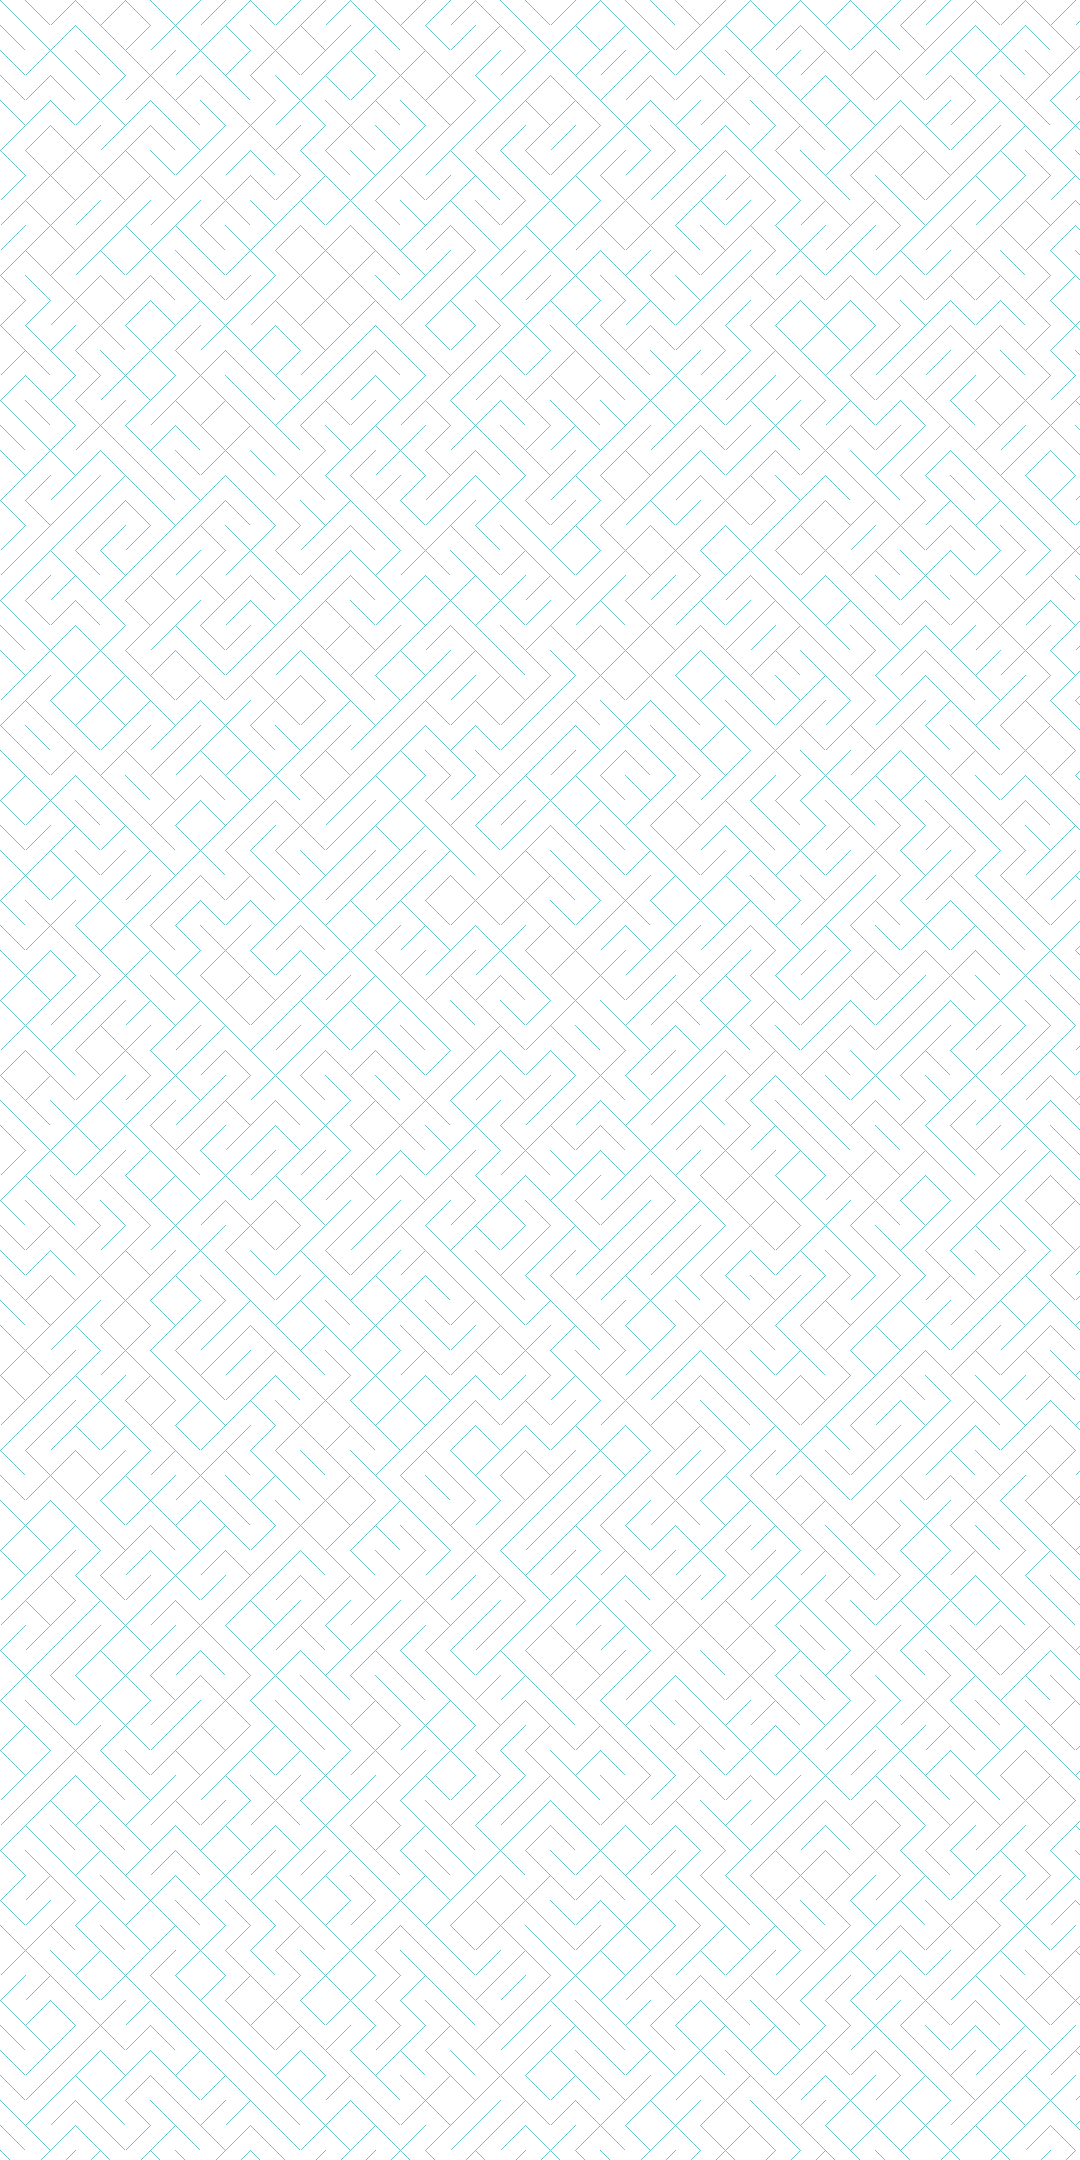
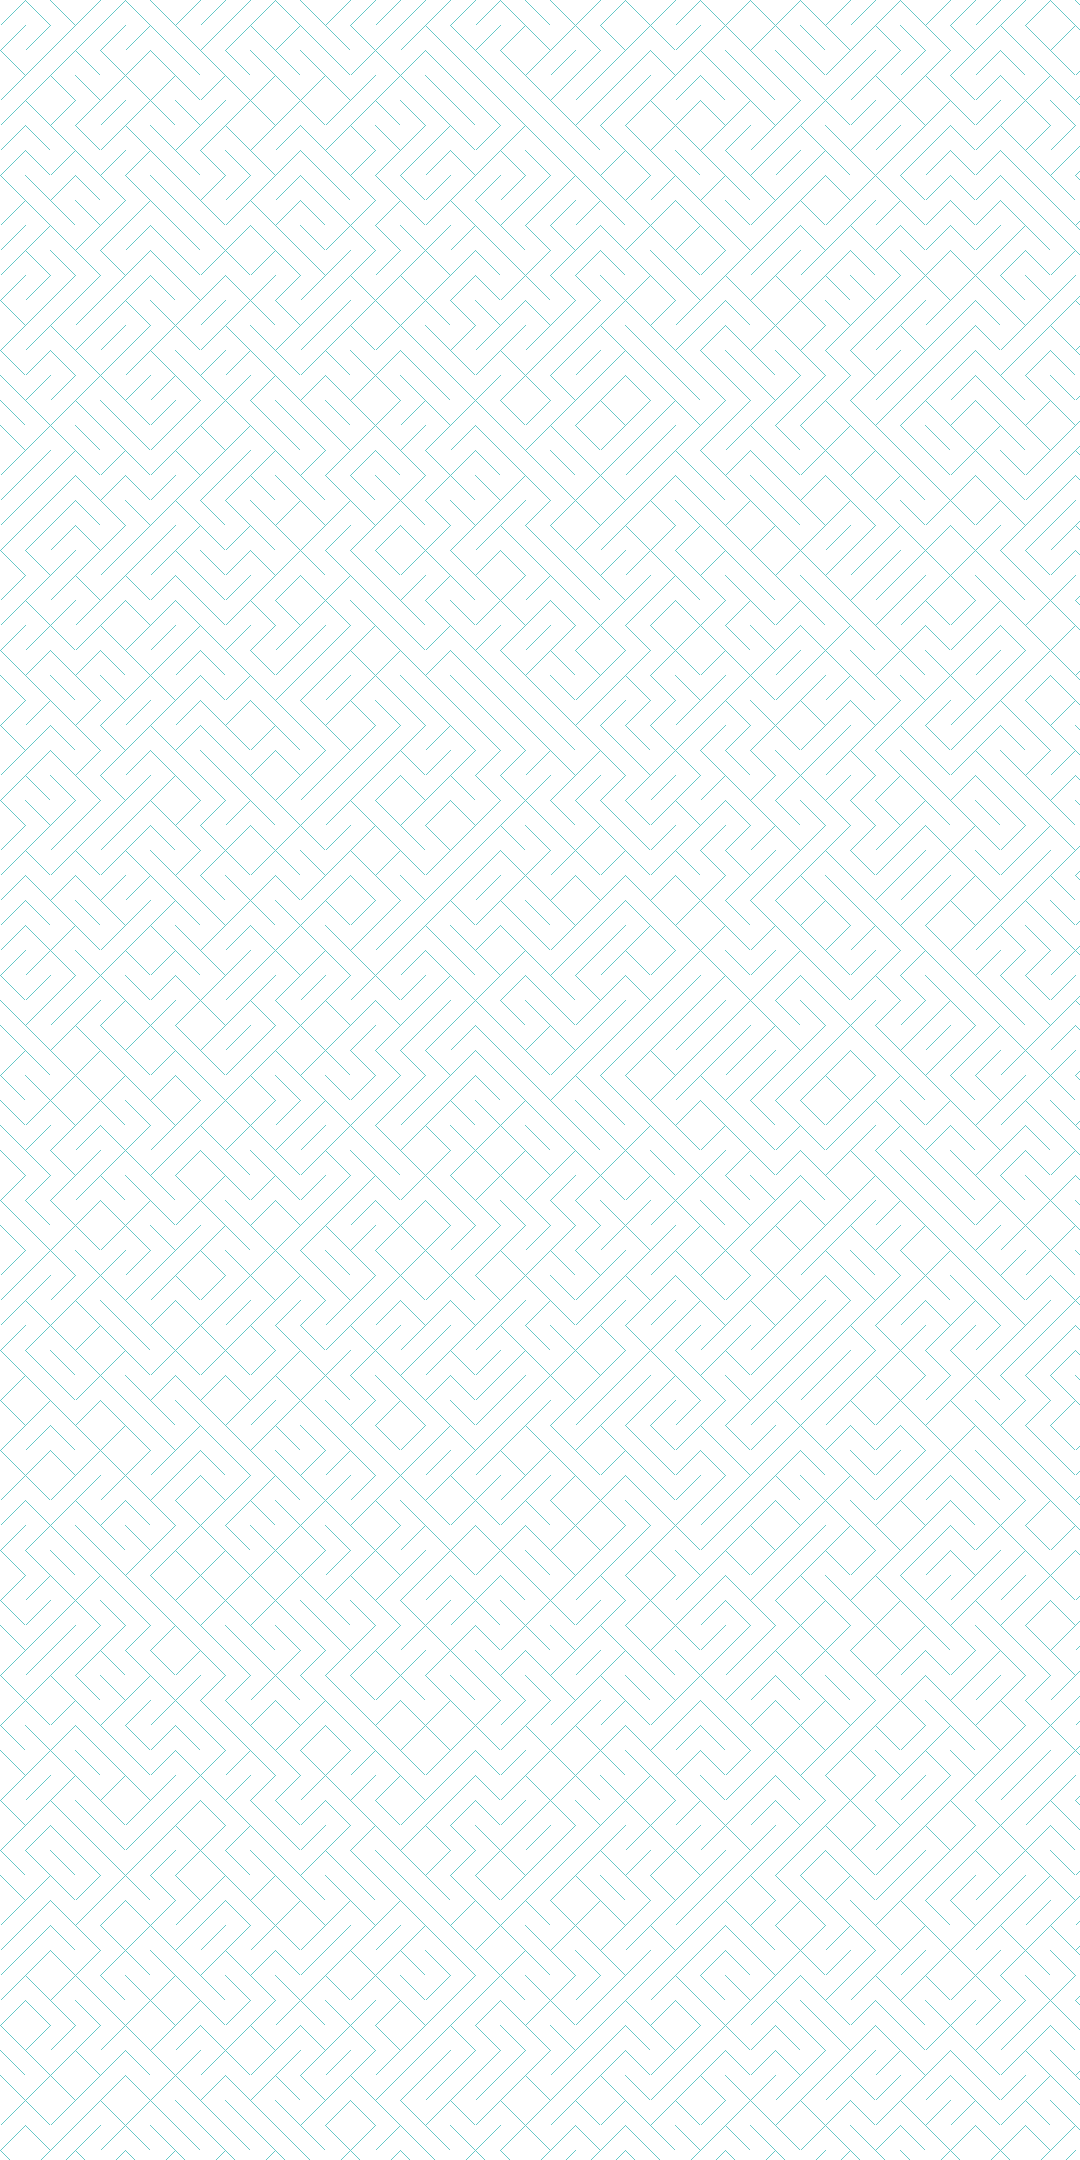
Lots of test runs, finally generating new images though! random was the key

diff --git a/lines.go b/lines.go
@@ -8,15 +8,19 @@ import (
     "image/png"
     "os"
     "fmt"
-    "math/rand"
     "flag"
     "strings"
+        crypto_rand "crypto/rand"
+    "encoding/binary"
+    math_rand "math/rand"
 )
 
 var debug bool = false
 
 func draw(img *image.RGBA, c color.Color, x int, y int, xstep int, ystep int) {
-    leftToRight := rand.Intn(2)
+    leftToRight := math_rand.Intn(2)
+    fmt.Println("x", x)
+    fmt.Println("random num:", leftToRight)
     for i := 0; i < xstep; i++ {
         if leftToRight > 0 {
             img.Set(x+i, y+i, c)
@@ -26,6 +30,15 @@ func draw(img *image.RGBA, c color.Color, x int, y int, xstep int, ystep int) {
     }
 }
 
+// https://stackoverflow.com/questions/12321133/how-to-properly-seed-random-number-generator
+func init() {
+    var b [8]byte
+    _, err := crypto_rand.Read(b[:])
+    if err != nil {
+        panic("cannot seed math/rand package with cryptographically secure random number generator")
+    }
+    math_rand.Seed(int64(binary.LittleEndian.Uint64(b[:])))
+}
 
 func main() {
     var width = flag.Int("width", 200, "width of the image")
@@ -35,6 +48,7 @@ func main() {
     flag.Parse()
     // width := 1080
     // height := 2160
+
 
     upLeft := image.Point{0, 0}
     lowRight := image.Point{*width, *height}
@@ -59,13 +73,13 @@ func main() {
 
     // Encode as PNG.
     fmt.Println("Outputting to file: ", strings.TrimSpace(*outputFile))
-    f, err := os.OpenFile(*outputFile, os.O_RDWR|os.O_CREATE, 0755)
+    f, err := os.OpenFile(*outputFile, os.O_RDWR|os.O_CREATE, 0777)
     if err != nil {
         fmt.Println(err)
     }
     // png.Encode(f, img)
         if err := png.Encode(f, img); err != nil {
-        f.Close()
         fmt.Println(err)
     }
+    f.Close()
 }
